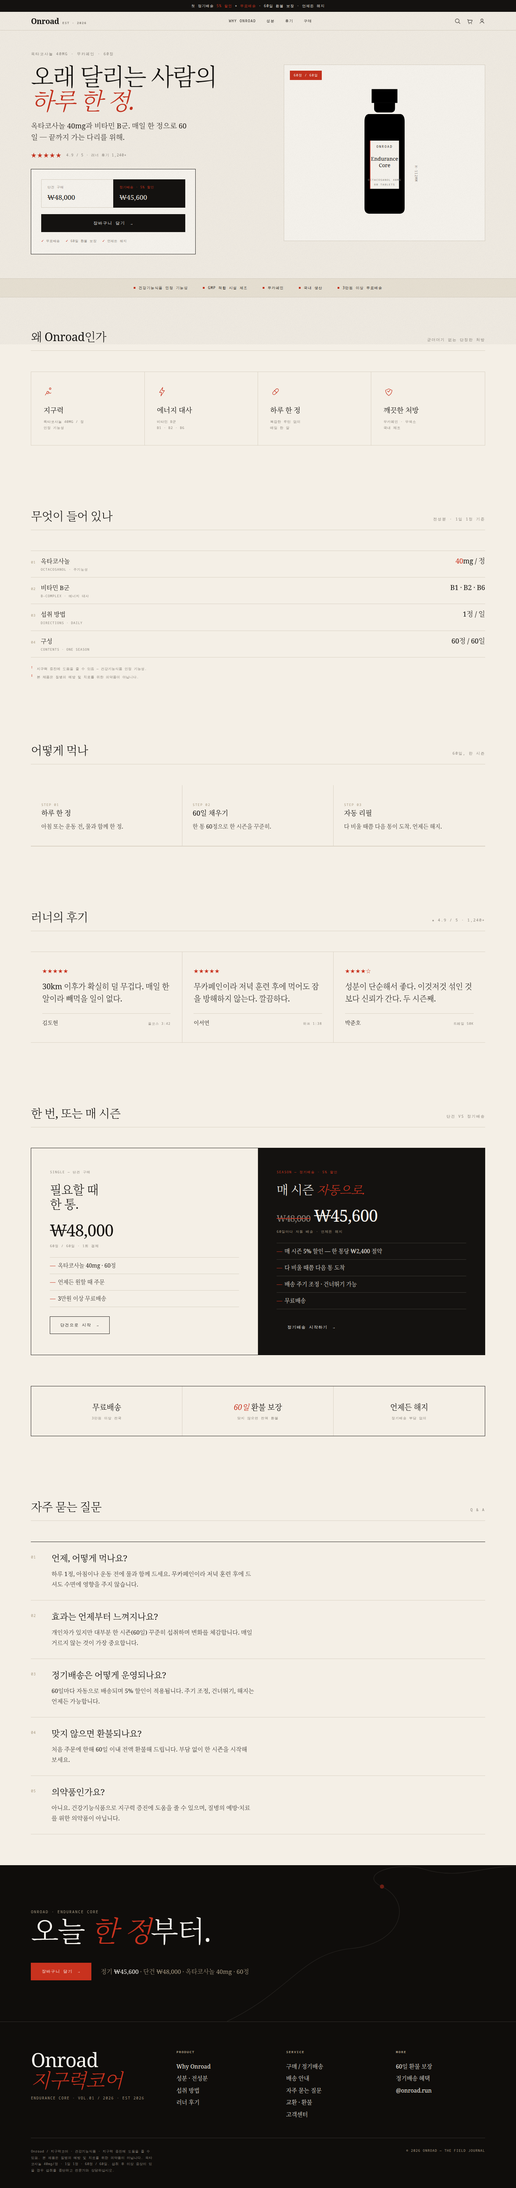
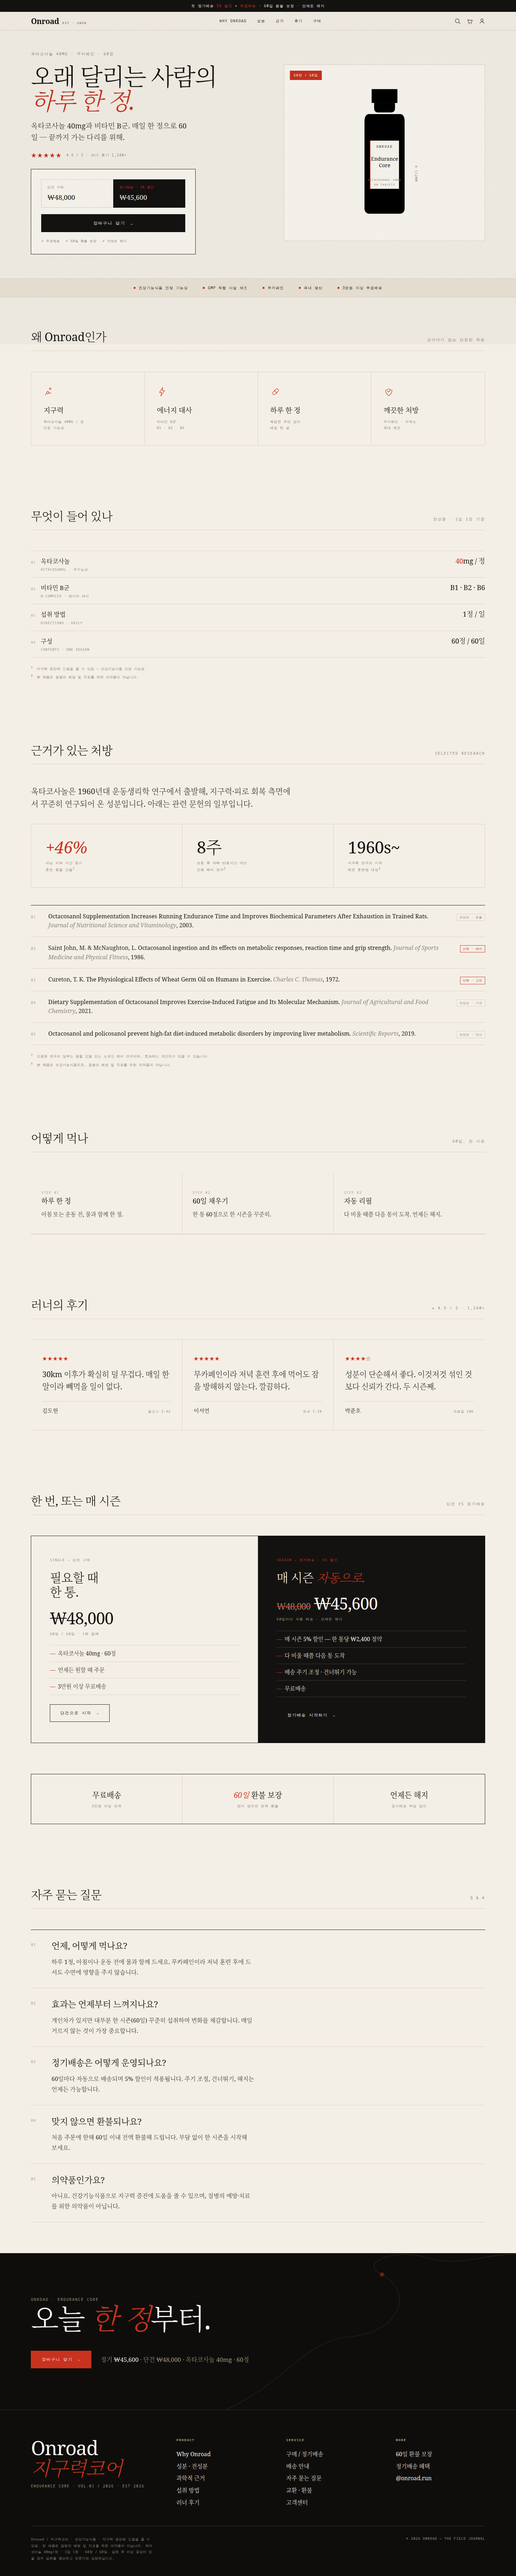
Add research/evidence section to homepage
New '근거가 있는 처방 / SELECTED RESEARCH' section between ingredients and
how-it-works: three finding callouts (+46% endurance time, 8-week grip/reaction
improvement, 1960s origin) and a numbered reference list citing real octacosanol
literature (J Nutr Sci Vitaminol 2003, J Sports Med Phys Fitness 1986, Cureton
1972, J Agric Food Chem 2021, Sci Reports 2019), each tagged preclinical/human.

Honest framing: footnotes note some studies are animal/preliminary with
individual variation, and that the product is not a drug. Add #science to nav,
mobile menu, and footer.

Claude-Session: https://claude.ai/code/session_01J97TaoKB5RB8QHhYcTzqGg

diff --git a/project/redesign/home-a.html b/project/redesign/home-a.html
@@ -607,6 +607,32 @@
   .onroad-page.ad-archive .gua:last-child{border-bottom:0;}
 }
 
+/* evidence / research */
+.onroad-page.ad-archive .ev-lead{font-family:var(--font-serif);font-weight:300;font-size:clamp(1.1rem,1.6vw,1.35rem);line-height:1.6;color:var(--c-char);max-width:60ch;margin-bottom:clamp(28px,4vh,48px);}
+.onroad-page.ad-archive .ev-stats{display:grid;grid-template-columns:repeat(3,1fr);border:1px solid var(--c-line);margin-bottom:clamp(30px,5vh,56px);}
+.onroad-page.ad-archive .ev{padding:clamp(24px,3vw,40px);border-right:1px solid var(--c-line);}
+.onroad-page.ad-archive .ev:last-child{border-right:0;}
+.onroad-page.ad-archive .ev .big{font-family:var(--font-serif);font-weight:300;font-size:clamp(2rem,3.4vw,2.9rem);color:var(--c-ink);letter-spacing:-.02em;font-variant-numeric:tabular-nums;line-height:1;}
+.onroad-page.ad-archive .ev .big .red{color:var(--c-signal);font-style:italic;}
+.onroad-page.ad-archive .ev .lab{font-family:var(--font-mono);font-size:.6rem;letter-spacing:.08em;text-transform:uppercase;color:var(--c-meta);margin-top:14px;line-height:1.7;}
+.onroad-page.ad-archive .refs{border-top:1px solid var(--c-ink);}
+.onroad-page.ad-archive .ref{display:grid;grid-template-columns:auto 1fr auto;gap:clamp(14px,2.4vw,38px);padding:18px 0;border-bottom:1px solid var(--c-line);align-items:baseline;}
+.onroad-page.ad-archive .ref .rn{font-family:var(--font-mono);font-size:.62rem;color:var(--c-sand);letter-spacing:.1em;}
+.onroad-page.ad-archive .ref .rc{font-family:var(--font-serif);font-weight:300;font-size:1rem;line-height:1.6;color:var(--c-char);}
+.onroad-page.ad-archive .ref .rc .ti{color:var(--c-ink);font-weight:400;}
+.onroad-page.ad-archive .ref .rc .jr{font-style:italic;color:var(--c-meta);}
+.onroad-page.ad-archive .ref .kind{font-family:var(--font-mono);font-size:.52rem;text-transform:uppercase;letter-spacing:.1em;color:var(--c-meta);border:1px solid var(--c-line);padding:3px 7px;white-space:nowrap;}
+.onroad-page.ad-archive .ref .kind.human{color:var(--c-signal);border-color:var(--c-signal);}
+.onroad-page.ad-archive .ev-note{margin-top:22px;display:flex;flex-direction:column;gap:6px;}
+.onroad-page.ad-archive .ev-note .fn{font-family:var(--font-mono);font-size:.6rem;letter-spacing:.04em;color:var(--c-meta);line-height:1.6;}
+.onroad-page.ad-archive .ev-note .fn sup{color:var(--c-signal);margin-right:5px;}
+@media (max-width:760px){
+  .onroad-page.ad-archive .ev-stats{grid-template-columns:1fr;}
+  .onroad-page.ad-archive .ev{border-right:0;border-bottom:1px solid var(--c-line);}
+  .onroad-page.ad-archive .ev:last-child{border-bottom:0;}
+  .onroad-page.ad-archive .ref{grid-template-columns:auto 1fr;}
+  .onroad-page.ad-archive .ref .kind{grid-column:2;justify-self:start;margin-top:6px;}
+}
 </style>
 </head>
 <body class="onroad-page onroad-home ad-archive">
@@ -621,6 +647,7 @@
     <nav class="nav" aria-label="주요 메뉴">
       <a href="#benefits">Why Onroad</a>
       <a href="#ingredients">성분</a>
+      <a href="#science">근거</a>
       <a href="#reviews">후기</a>
       <a href="#plan">구매</a>
     </nav>
@@ -766,6 +793,66 @@
   </div>
 </section>
 
+<!-- ============ SCIENCE / EVIDENCE ============ -->
+<section class="ed-section" id="science">
+  <div class="sec-head">
+    <span class="t">근거가 있는 처방</span>
+    <span class="mono">SELECTED RESEARCH</span>
+  </div>
+  <p class="ev-lead reveal">
+    옥타코사놀은 1960년대 운동생리학 연구에서 출발해, 지구력·피로 회복 측면에서
+    꾸준히 연구되어 온 성분입니다. 아래는 관련 문헌의 일부입니다.
+  </p>
+
+  <div class="ev-stats reveal">
+    <div class="ev">
+      <div class="big"><span class="red">+46%</span></div>
+      <div class="lab">러닝 지속 시간 증가<br>훈련 동물 모델<sup>1</sup></div>
+    </div>
+    <div class="ev">
+      <div class="big">8주</div>
+      <div class="lab">보충 후 악력·반응시간 개선<br>인체 예비 연구<sup>2</sup></div>
+    </div>
+    <div class="ev">
+      <div class="big">1960s~</div>
+      <div class="lab">지구력 연구의 시작<br>해군 훈련생 대상<sup>3</sup></div>
+    </div>
+  </div>
+
+  <div class="refs reveal">
+    <div class="ref">
+      <span class="rn">01</span>
+      <span class="rc"><span class="ti">Octacosanol Supplementation Increases Running Endurance Time and Improves Biochemical Parameters After Exhaustion in Trained Rats.</span> <span class="jr">Journal of Nutritional Science and Vitaminology</span>, 2003.</span>
+      <span class="kind">전임상 · 동물</span>
+    </div>
+    <div class="ref">
+      <span class="rn">02</span>
+      <span class="rc">Saint John, M. &amp; McNaughton, L. <span class="ti">Octacosanol ingestion and its effects on metabolic responses, reaction time and grip strength.</span> <span class="jr">Journal of Sports Medicine and Physical Fitness</span>, 1986.</span>
+      <span class="kind human">인체 · 예비</span>
+    </div>
+    <div class="ref">
+      <span class="rn">03</span>
+      <span class="rc">Cureton, T. K. <span class="ti">The Physiological Effects of Wheat Germ Oil on Humans in Exercise.</span> <span class="jr">Charles C. Thomas</span>, 1972.</span>
+      <span class="kind human">인체 · 고전</span>
+    </div>
+    <div class="ref">
+      <span class="rn">04</span>
+      <span class="rc"><span class="ti">Dietary Supplementation of Octacosanol Improves Exercise-Induced Fatigue and Its Molecular Mechanism.</span> <span class="jr">Journal of Agricultural and Food Chemistry</span>, 2021.</span>
+      <span class="kind">전임상 · 기전</span>
+    </div>
+    <div class="ref">
+      <span class="rn">05</span>
+      <span class="rc"><span class="ti">Octacosanol and policosanol prevent high-fat diet-induced metabolic disorders by improving liver metabolism.</span> <span class="jr">Scientific Reports</span>, 2019.</span>
+      <span class="kind">전임상 · 대사</span>
+    </div>
+  </div>
+
+  <div class="ev-note">
+    <span class="fn"><sup>†</sup> 인용된 연구의 일부는 동물 모델 또는 소규모 예비 연구이며, 효과에는 개인차가 있을 수 있습니다.</span>
+    <span class="fn"><sup>‡</sup> 본 제품은 건강기능식품으로, 질병의 예방 및 치료를 위한 의약품이 아닙니다.</span>
+  </div>
+</section>
+
 <!-- ============ HOW IT WORKS ============ -->
 <section class="ed-section" id="how">
   <div class="sec-head">
@@ -908,6 +995,7 @@
       <h4>Product</h4>
       <a href="#benefits">Why Onroad</a>
       <a href="#ingredients">성분 · 전성분</a>
+      <a href="#science">과학적 근거</a>
       <a href="#how">섭취 방법</a>
       <a href="#reviews">러너 후기</a>
     </div>
@@ -941,6 +1029,7 @@
   <button class="m-close" id="mClose">닫기 ✕</button>
   <a href="#benefits">Why <span class="red ital">Onroad</span></a>
   <a href="#ingredients">성분 · 전성분</a>
+  <a href="#science">과학적 근거</a>
   <a href="#how">섭취 방법</a>
   <a href="#reviews">러너 후기</a>
   <a href="#plan">지금 <span class="red ital">구매하기</span></a>
